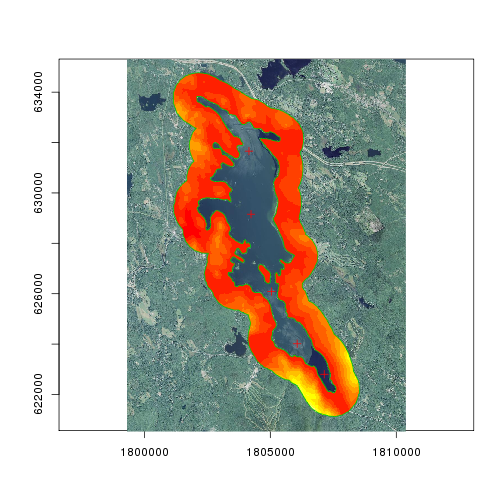
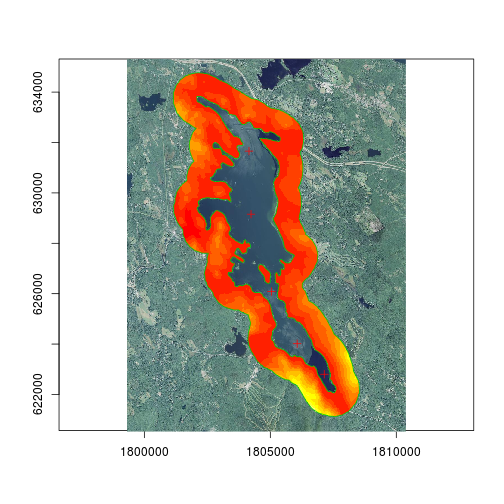
passed cran check, re-render readme

diff --git a/README.md b/README.md
@@ -47,9 +47,7 @@ data(lake)
 qm <- qmap(elev,samples,buffer,width)
 ```
 
-```
-## Error in eval(expr, envir, enclos): could not find function "qmap"
-```
+![plot of chunk unnamed-chunk-2](figure/unnamed-chunk-2-1.png) 
 
 There are some other options on `qmap` that let you change the draw order, coloring of vectors, extent of the map, and whether or not to preform a basic projection check (data are assumed to be in the same coordinate reference system).
 
@@ -61,9 +59,7 @@ So for instance, if you want to zoom in to the extent of one of your layers you 
 qm<-qmap(elev,samples,buffer,extent=width)
 ```
 
-```
-## Error in eval(expr, envir, enclos): could not find function "qmap"
-```
+![plot of chunk unnamed-chunk-3](figure/unnamed-chunk-3-1.png) 
 
 Currently this is only working with object in memory and not pulling from the `qmap` object.  
 
@@ -75,9 +71,7 @@ You can change colors (this is still a bit clunky).
 qm<-qmap(elev,samples,buffer,order = c(2,1,3), colors = c("red","red","blue"), fill=TRUE)
 ```
 
-```
-## Error in eval(expr, envir, enclos): could not find function "qmap"
-```
+![plot of chunk unnamed-chunk-4](figure/unnamed-chunk-4-1.png) 
 
 Basemaps can be added from the USGS' National Map (still VERY experimental,slow,
 and United States Specific)
@@ -86,36 +80,18 @@ and United States Specific)
 ```r
 #Get a Topo Basemap
 basem <- get_basemap(qm,"topo",width=1000)
-```
-
-```
-## Error in eval(expr, envir, enclos): could not find function "get_basemap"
-```
-
-```r
 qm <- qmap(qm,basemap = basem)
 ```
 
-```
-## Error in eval(expr, envir, enclos): could not find function "qmap"
-```
+![plot of chunk unnamed-chunk-5](figure/unnamed-chunk-5-1.png) 
 
 ```r
 #Get an Aerial Basemap
 basem <- get_basemap(qm,"1m_aerial",width=1000)
-```
-
-```
-## Error in eval(expr, envir, enclos): could not find function "get_basemap"
-```
-
-```r
 qm <- qmap(qm,basemap = basem)
 ```
 
-```
-## Error in eval(expr, envir, enclos): could not find function "qmap"
-```
+![plot of chunk unnamed-chunk-5](figure/unnamed-chunk-5-2.png) 
 
 Zooming and panning are accomplished with zi(),ze(),zo(),f(), and p():
 
